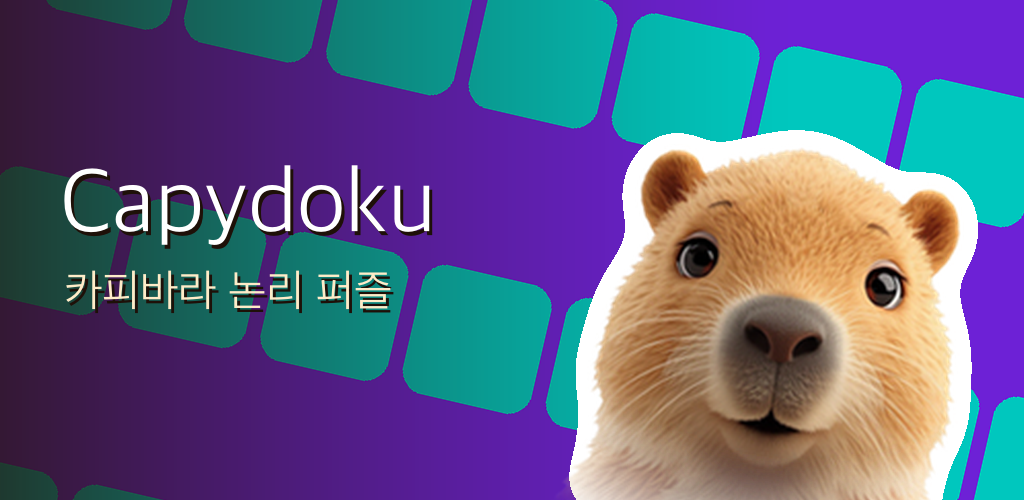
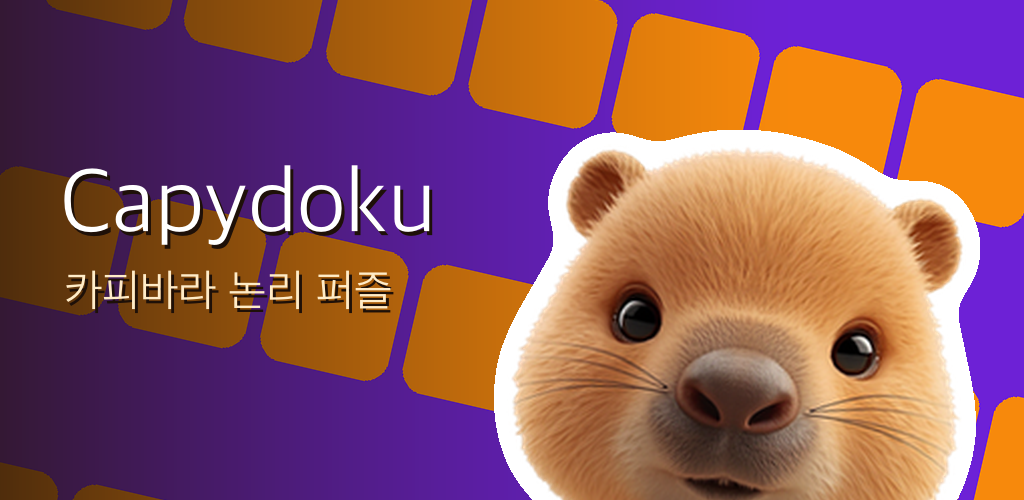
아이콘: 아기 얼굴만, 보라+주황, 실선처럼 얇고 또렷한 흰 선
- **아기 얼굴로.** 가장 동그랗고 눈이 가장 크다.
- **얼굴만 남긴다.** 리그의 머리 조각에는 목·가슴이 페더링된 채 붙어 있어서,
  그게 함께 들어오면 얼굴이 작아 보이고 흰 테두리도 목까지 늘어져 스티커
  모양이 어정쩡해진다. 아래 1/4을 잘라 낸다.
- **보라 + 주황.** 레퍼런스와 같은 조합이다. 한때 강조색을 청록으로 뺀 건
  카피 털이 주황이라 배경에 녹을까 걱정해서였는데, 얼굴에 흰 테두리를 두른
  뒤로는 그 문제가 없다 — 레퍼런스의 고양이도 흰 테두리 덕에 주황 위에서 뜬다.
- **흰 선을 얇게(0.008), 그리고 또렷하게.** 얇은 선을 그대로 눕히면 회전
  보간이 선을 흐려 놓아 "쨍한" 맛이 사라진다. 세 배 크기로 그린 뒤 줄여
  (수퍼샘플링) 계단도 없고 흐리지도 않게 했다.

diff --git a/tool/gen_icon.py b/tool/gen_icon.py
@@ -35,16 +35,21 @@ OUT = 'assets/icon'
 # 강조색을 차가운 쪽(청록)으로 잡은 건 카피 털이 따뜻한 주황이어서다.
 # 레퍼런스의 고양이는 흑백이라 주황을 써도 됐지만, 여기서 주황을 깔면
 # 얼굴이 배경에 녹는다.
+# **진한 보라 + 주황.** 레퍼런스와 같은 조합이다.
+#
+# 한때 강조색을 청록으로 뺐던 이유는 카피 털이 따뜻한 주황이라 배경에 녹을까
+# 걱정해서였다. 지금은 얼굴에 **흰 테두리**가 한 바퀴 둘려 있어서 그 문제가
+# 없다 — 레퍼런스의 고양이도 흑백이 아니라 흰 테두리 덕에 주황 위에서 뜬다.
 COLORS = [
     (109, 33, 214),   # 진보라 — 바탕
-    (0, 199, 190),    # 청록 — 강조
+    (247, 137, 12),   # 주황 — 강조
 ]
 
 # 칸을 나누는 흰 선의 굵기(아이콘 크기 대비).
 #
 # 얇으면 48dp에서 사라지고, 두꺼우면 배경이 **선 그림**이 되어 얼굴과 경쟁한다.
 # 배경은 어디까지나 얼굴 뒤에 깔리는 것이라 선은 있는 듯 없는 듯해야 한다.
-LINE_W = 0.011
+LINE_W = 0.008
 
 # **완성된 아이콘 폭**을 몇 칸으로 나눌까. 눕히려고 넉넉한 캔버스에 그리지만,
 # 칸 크기는 잘라 낸 뒤의 크기로 잡아야 한다 — 큰 캔버스 기준으로 잡았더니
@@ -101,6 +106,11 @@ def background(size):
     아이콘 모음처럼 보였다. 실제 판처럼 **면을 맞붙이고 흰 선으로 가르면**
     한눈에 "칸을 나눠 채우는 게임"으로 읽힌다(레퍼런스도 같은 문법이다).
     """
+    # **세 배로 그린 뒤 줄인다(수퍼샘플링).** 얇은 흰 선을 그대로 눕히면
+    # 회전 보간이 선을 흐려 놓아 "쨍한" 맛이 사라진다 — 크게 그려서 줄이면
+    # 계단도 없고 흐리지도 않다.
+    ss = 3
+    size = size * ss
     # 눕혀도 네 귀퉁이가 비지 않도록 넉넉히 그린 뒤 잘라 낸다.
     big = int(size * 1.75)
     # **칸 크기는 완성 크기 기준.** 큰 캔버스를 나누면 칸이 1.75배가 된다.
@@ -124,7 +134,8 @@ def background(size):
     im = im.rotate(GRID_TILT, resample=Image.BICUBIC,
                    center=(big / 2, big / 2))
     o = (big - size) // 2
-    return im.crop((o, o, o + size, o + size))
+    im = im.crop((o, o, o + size, o + size))
+    return im.resize((size // ss, size // ss), Image.LANCZOS)
 
 
 TILT = -11  # 갸웃한 각도. 정면으로 세워 두면 증명사진처럼 뻣뻣하다.
@@ -163,11 +174,10 @@ def outlined(im, width):
 # 카피는 주둥이가 얼굴의 절반을 차지하고 눈이 상대적으로 작아져서, 잘 만든
 # 렌더인데도 아이콘으로 줄이면 안 귀엽다는 말을 듣는다(사용자 지적).
 #
-# 어린이를 쓴다. 아기가 가장 귀엽지만 얼굴이 너무 동그래서 햄스터처럼
-# 보이고, 카피바라의 특징(뭉툭하고 넓은 주둥이)이 사라진다.
+# 아기를 쓴다. 가장 동그랗고 눈이 가장 크다.
 # 판 안의 얼굴(`h_head.png`)은 그대로 청소년에서 뽑는다 — 칸에 들어가는
 # 그림은 또렷한 이목구비가 먼저다.
-ICON_FACE = 'stage2'
+ICON_FACE = 'stage1'
 
 
 def face(height, tilt=TILT):
@@ -177,6 +187,11 @@ def face(height, tilt=TILT):
     im = Image.new('RGBA', head.size, (0, 0, 0, 0))
     im.alpha_composite(head)
     im.alpha_composite(jaw)
+    # **얼굴만 남긴다.** 리그의 머리 조각은 아래쪽에 목·가슴이 페더링된 채로
+    # 붙어 있는데, 그게 함께 들어오면 얼굴이 작아 보이고 흰 테두리도 목까지
+    # 늘어져 스티커 모양이 어정쩡해진다.
+    bb = im.getbbox()
+    im = im.crop((bb[0], bb[1], bb[2], bb[1] + round((bb[3] - bb[1]) * 0.745)))
     im = im.rotate(tilt, resample=Image.BICUBIC, expand=True)
     # **회전하면서 생긴 투명 여백을 잘라 낸다.** 안 자르면 `height`가 얼굴이
     # 아니라 여백까지 포함한 상자의 높이가 되어, 숫자를 올려도 얼굴은 그만큼
@@ -212,7 +227,7 @@ def main():
 
     # **얼굴은 가운데, 턱까지 다 보이게, 사방으로 판이 남게.**
     # 레퍼런스(Meowdoku)가 정확히 이 구도다.
-    rising(bg, SIZE, 0.90, 0.50, 0.05).convert('RGB').save(f'{OUT}/icon.png')
+    rising(bg, SIZE, 0.86, 0.50, 0.07).convert('RGB').save(f'{OUT}/icon.png')
 
     # 적응형 전경은 **보이는 영역(가운데 66%) 안에 통째로 들어와야 한다.**
     # 그보다 크게 잡으면 흰 테두리가 위아래로 잘려 나가고, 테두리가 잘리면
@@ -220,7 +235,7 @@ def main():
     # 0.625면 보이는 아이콘의 94%를 얼굴이 채운다.
     # 실제로 잘린 모습은 `python3 tool/preview_icon.py`로 본다.
     fg = Image.new('RGBA', (SIZE, SIZE), (0, 0, 0, 0))
-    rising(fg, SIZE, 0.625, 0.50, 0.1875).save(f'{OUT}/icon_fg.png')
+    rising(fg, SIZE, 0.615, 0.50, 0.1925).save(f'{OUT}/icon_fg.png')
 
     for n in ('icon.png', 'icon_bg.png', 'icon_fg.png'):
         print(f'{OUT}/{n}  {os.path.getsize(f"{OUT}/{n}") // 1024}KB')
